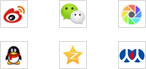
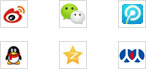
4444

Changed region(s): [[0.8219, 0.058, 0.9863, 0.3478]]

diff --git a/index/Tpl/Index/weibo.html b/index/Tpl/Index/weibo.html
@@ -29,7 +29,8 @@
                 -->
                 <a title="分享到新浪微博" href="javascript:void(0);" onclick="bShare.share(event,'sinaminiblog',0);return false;"><span class="xinlang"></span></a>
                 <a title="分享到微信" href="javascript:void(0);" onclick="bShare.share(event,'weixin',0);return false;"><span class="weixin"></span></a>
-                <a title="分享到腾讯微博" href="javascript:void(0)" onclick="bShare.share(event,'qqmb',0);return false;"><span class="tengxunweibo"></span></a>
+                <a title="分享到QQ好友" href="javascript:void(0);" onclick="bShare.share(event,'qqim',0);return false;"><span class="tengxunweibo"></span></a>
+                <a title="分享到腾讯微博" href="javascript:void(0)" onclick="bShare.share(event,'qqmb',0);return false;"><span class="weixinpy"></span></a>
                 <a title="分享到Qzone空间" href="javascript:void(0);" onclick="bShare.share(event,'qzone',0);return false;"><span class="qqzone"></span></a>
                 <a title="分享到人人网" href="javascript:void(0);" onclick="bShare.share(event,'renren',0);return false;"><span class="renren"></span></a>
             </div>
